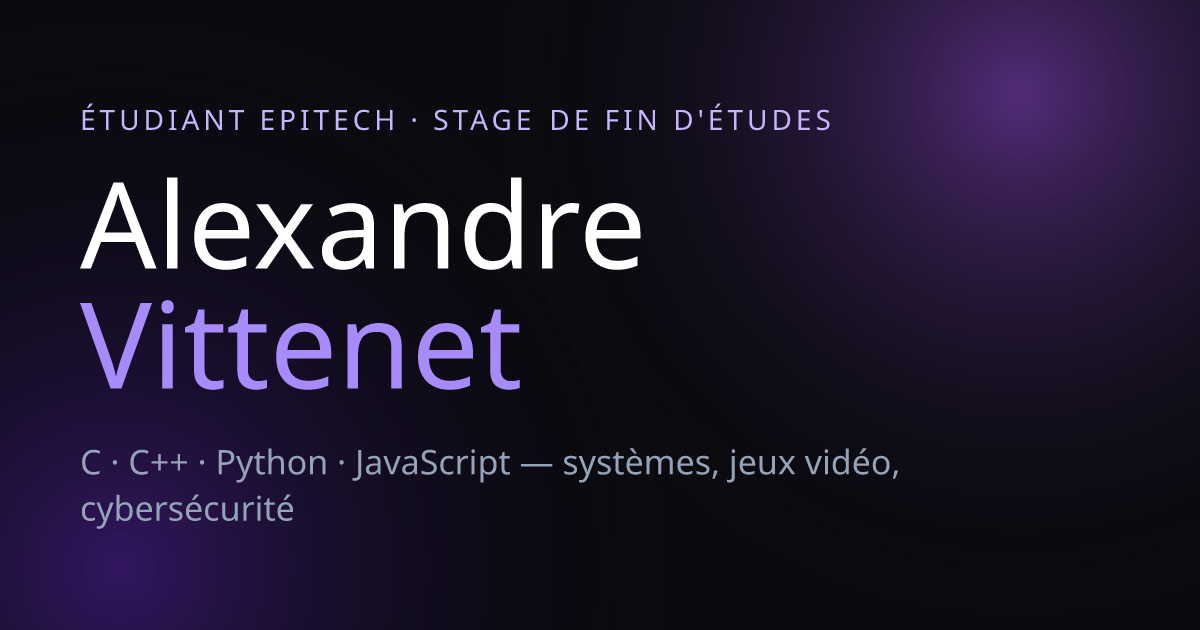
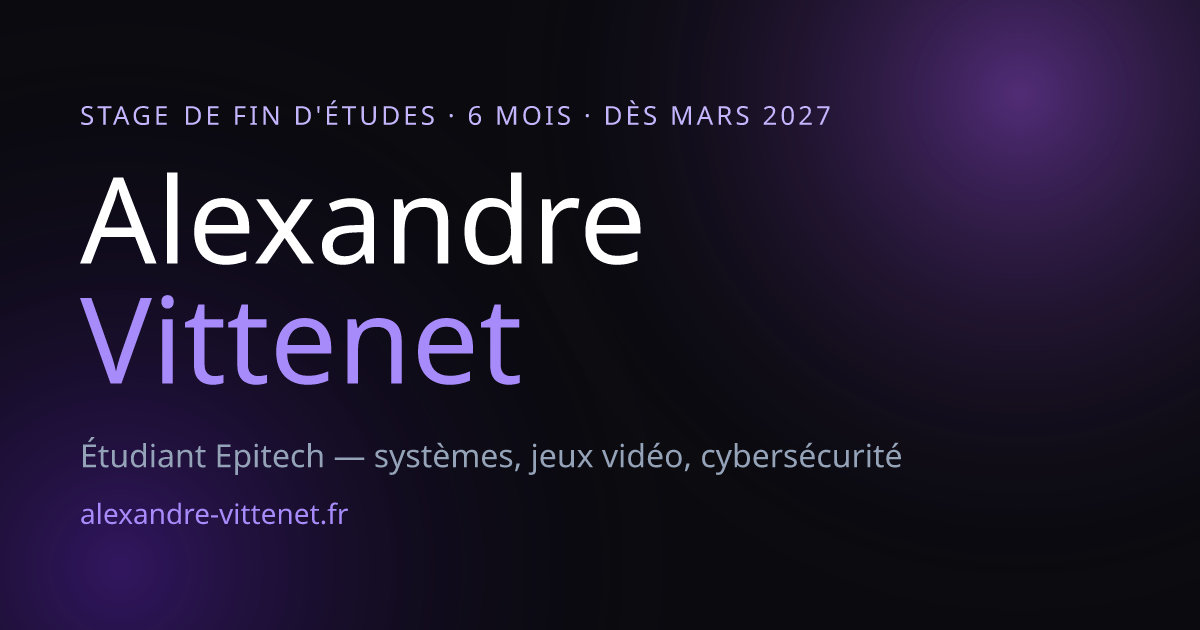
Serve on alexandre-vittenet.fr; availability update; Milo & AREA screenshots
- Custom domain: drop the /Portfolio basePath, add public/CNAME, canonical URL and
  Open Graph metadata on https://alexandre-vittenet.fr, regenerated og.png
- Availability: 6-month final-year internship from March 2027 (hero badge, contact,
  timeline), badge wraps cleanly on mobile
- Cursor ring follows the pointer faster (~50 ms lag instead of ~0.6 s)
- Project galleries for Milo (12) and AREA (7), converted to WebP
- New profile photo (resized to 640px), project list update

diff --git a/lib/projects.ts b/lib/projects.ts
@@ -175,38 +175,4 @@ export const projects: Project[] = [
     icon: Swords,
     category: 'Game Dev',
   },
-  {
-    title: 'CyberSec Tricks',
-    slug: 'cybersec',
-    description: 'Collection de techniques et notes de cybersécurité — outils et exploits.',
-    descriptionEn: 'Collection of cybersecurity techniques and notes — tools and exploits.',
-    longDesc:
-      'Repository de ressources personnelles en cybersécurité : techniques offensives et défensives, notes de CTF, outils de pentest, et découvertes sur les vulnérabilités systèmes.',
-    longDescEn:
-      'Personal cybersecurity resource repository: offensive and defensive techniques, CTF notes, pentesting tools, and findings on system vulnerabilities.',
-    tags: ['Cybersécurité', 'CTF', 'Pentest', 'Outils', 'Shell'],
-    language: 'Shell',
-    languageColor: '#89e051',
-    githubUrl: 'https://github.com/SHRaton/CyberSec_Tricks',
-    featured: false,
-    icon: ShieldCheck,
-    category: 'CyberSec',
-  },
-  {
-    title: 'Jam Itachi',
-    slug: 'jam-itachi',
-    description: 'Projet Game Jam — jeu développé en 48h en C avec SFML.',
-    descriptionEn: 'Game Jam project — game built in 48h in C with SFML.',
-    longDesc:
-      "Jeu créé dans le cadre d'une Game Jam sous contrainte de temps. Développé en C avec gestion des sprites, animations, et collisions. Une expérience de développement intensif sous pression.",
-    longDescEn:
-      'Game created during a time-constrained Game Jam. Developed in C with sprite management, animations and collisions. An intensive development experience under pressure.',
-    tags: ['C', 'Game Jam', 'SFML', 'Sprite', 'Game Dev'],
-    language: 'C',
-    languageColor: '#555555',
-    githubUrl: 'https://github.com/SHRaton/Jam-Itachi-Amaterastu',
-    featured: false,
-    icon: Gamepad2,
-    category: 'Game Dev',
-  },
 ]

diff --git a/lib/i18n.ts b/lib/i18n.ts
@@ -9,7 +9,7 @@ export const ui = {
       contact: 'Contact',
     },
     hero: {
-      badge: 'DISPONIBLE POUR UN STAGE DE FIN D\'ÉTUDES',
+      badge: 'DISPONIBLE POUR UN STAGE DE FIN D\'ÉTUDES DE 6 MOIS À PARTIR DE MARS 2027',
       greeting: 'Bonjour, je suis',
       desc1: 'Étudiant à ',
       desc2: ', passionné par le développement système, les jeux et la cybersécurité. Je construis des projets ',
@@ -39,7 +39,7 @@ export const ui = {
     contact: {
       label: 'CONTACT',
       title: 'Travaillons ensemble',
-      p1: 'Je recherche un stage de fin d\'études.',
+      p1: 'Je recherche un stage de fin d\'études de 6 mois, à partir de mars 2027.',
       p2: "Que ce soit pour un projet de jeu, une application système, une webapp ou un défi en cybersécurité — n'hésitez pas à me contacter.",
     },
     footer: {
@@ -54,7 +54,7 @@ export const ui = {
       contact: 'Contact',
     },
     hero: {
-      badge: 'AVAILABLE FOR A FINAL-YEAR INTERNSHIP',
+      badge: 'AVAILABLE FOR A 6-MONTH FINAL-YEAR INTERNSHIP FROM MARCH 2027',
       greeting: 'Hello, I am',
       desc1: 'Student at ',
       desc2: ', passionate about systems development, game dev and cybersecurity. I build ',
@@ -84,7 +84,7 @@ export const ui = {
     contact: {
       label: 'CONTACT',
       title: "Let's work together",
-      p1: 'I am looking for a final-year internship.',
+      p1: 'I am looking for a 6-month final-year internship, starting March 2027.',
       p2: "Whether it's a game project, a systems application, a web app or a cybersecurity challenge — feel free to reach out.",
     },
     footer: {

diff --git a/app/layout.tsx b/app/layout.tsx
@@ -13,7 +13,7 @@ const jetbrainsMono = JetBrains_Mono({
 })
 
 export const metadata: Metadata = {
-  metadataBase: new URL('https://shraton.github.io'),
+  metadataBase: new URL('https://alexandre-vittenet.fr'),
   title: 'Alexandre Vittenet — Portfolio',
   description: 'Étudiant Epitech — Développeur passionné par les systèmes, les jeux et la cybersécurité.',
   keywords: ['Portfolio', 'Alexandre Vittenet', 'Epitech', 'C++', 'Developer', 'Game Dev'],
@@ -22,12 +22,15 @@ export const metadata: Metadata = {
     description: 'Étudiant Epitech — Développeur passionné par les systèmes, les jeux et la cybersécurité.',
     type: 'website',
     locale: 'fr_FR',
-    url: '/Portfolio/',
-    images: [{ url: '/Portfolio/og.png', width: 1200, height: 630, alt: 'Alexandre Vittenet — Portfolio' }],
+    url: '/',
+    images: [{ url: '/og.png', width: 1200, height: 630, alt: 'Alexandre Vittenet — Portfolio' }],
+  },
+  alternates: {
+    canonical: '/',
   },
   twitter: {
     card: 'summary_large_image',
-    images: ['/Portfolio/og.png'],
+    images: ['/og.png'],
   },
 }
 

diff --git a/components/Timeline.tsx b/components/Timeline.tsx
@@ -166,14 +166,14 @@ export default function Timeline() {
                 ? {
                     year: '2026',
                     title: 'Et maintenant ?',
-                    text: "Dernière année à Epitech — je cherche un stage de fin d'études pour mettre tout ça en pratique dans une équipe.",
+                    text: "Dernière année à Epitech — je cherche un stage de fin d'études de 6 mois à partir de mars 2027 pour mettre tout ça en pratique dans une équipe.",
                     cta: 'Me contacter',
                     href: '#contact',
                   }
                 : {
                     year: '2026',
                     title: "What's next?",
-                    text: 'Final year at Epitech — looking for a final-year internship to put all of this to work in a team.',
+                    text: 'Final year at Epitech — looking for a 6-month final-year internship from March 2027 to put all of this to work in a team.',
                     cta: 'Get in touch',
                     href: '#contact',
                   }

diff --git a/components/Hero.tsx b/components/Hero.tsx
@@ -39,9 +39,9 @@ export default function Hero() {
         ref={containerRef}
         className="section-animate relative z-10 max-w-5xl mx-auto w-full flex flex-col items-center text-center gap-6 md:gap-8"
       >
-        <div className="flex items-center gap-3 px-4 py-1.5 rounded-full border border-violet-400/25 bg-violet-500/10">
+        <div className="flex items-center gap-3 px-4 py-1.5 rounded-2xl sm:rounded-full border border-violet-400/25 bg-violet-500/10 max-w-full">
           <span className="w-2 h-2 shrink-0 rounded-full bg-emerald-400 animate-pulse" aria-hidden />
-          <span className="font-mono text-xs md:text-sm text-violet-200 tracking-widest">{t.badge}</span>
+          <span className="font-mono text-xs md:text-sm text-violet-200 tracking-wide sm:tracking-widest text-center">{t.badge}</span>
         </div>
 
         <div>

diff --git a/components/CustomCursor.tsx b/components/CustomCursor.tsx
@@ -11,8 +11,10 @@ export default function CustomCursor() {
   const mouseX = useMotionValue(-100)
   const mouseY = useMotionValue(-100)
 
-  const ringX = useSpring(mouseX, { stiffness: 110, damping: 18, mass: 0.12 })
-  const ringY = useSpring(mouseY, { stiffness: 110, damping: 18, mass: 0.12 })
+  // Stiff, slightly over-damped spring: the ring trails by ~50 ms without overshooting
+  const ringSpring = { stiffness: 600, damping: 30, mass: 0.1 }
+  const ringX = useSpring(mouseX, ringSpring)
+  const ringY = useSpring(mouseY, ringSpring)
 
   useEffect(() => {
     if (!window.matchMedia('(pointer: fine) and (prefers-reduced-motion: no-preference)').matches) return

diff --git a/components/About.tsx b/components/About.tsx
@@ -131,7 +131,7 @@ export default function About() {
               <div className="relative w-64 h-64 md:w-72 md:h-72 rounded-full overflow-hidden glass glow-purple border-2 border-purple-500/30">
                 {/* eslint-disable-next-line @next/next/no-img-element */}
                 <img
-                  src={assetPath('/photo.jpg')}
+                  src={assetPath('/photo.jpeg')}
                   alt="Alexandre Vittenet"
                   width={288}
                   height={288}

diff --git a/next.config.js b/next.config.js
@@ -1,13 +1,11 @@
 /** @type {import('next').NextConfig} */
+// Served from the root of https://alexandre-vittenet.fr (GitHub Pages custom domain),
+// so no basePath. lib/assetPath.ts still honours NEXT_PUBLIC_BASE_PATH if one is ever set.
 const nextConfig = {
   output: 'export',
-  basePath: '/Portfolio',
   trailingSlash: true,
   images: {
     unoptimized: true,
-  },
-  env: {
-    NEXT_PUBLIC_BASE_PATH: '/Portfolio',
   },
 }
 
